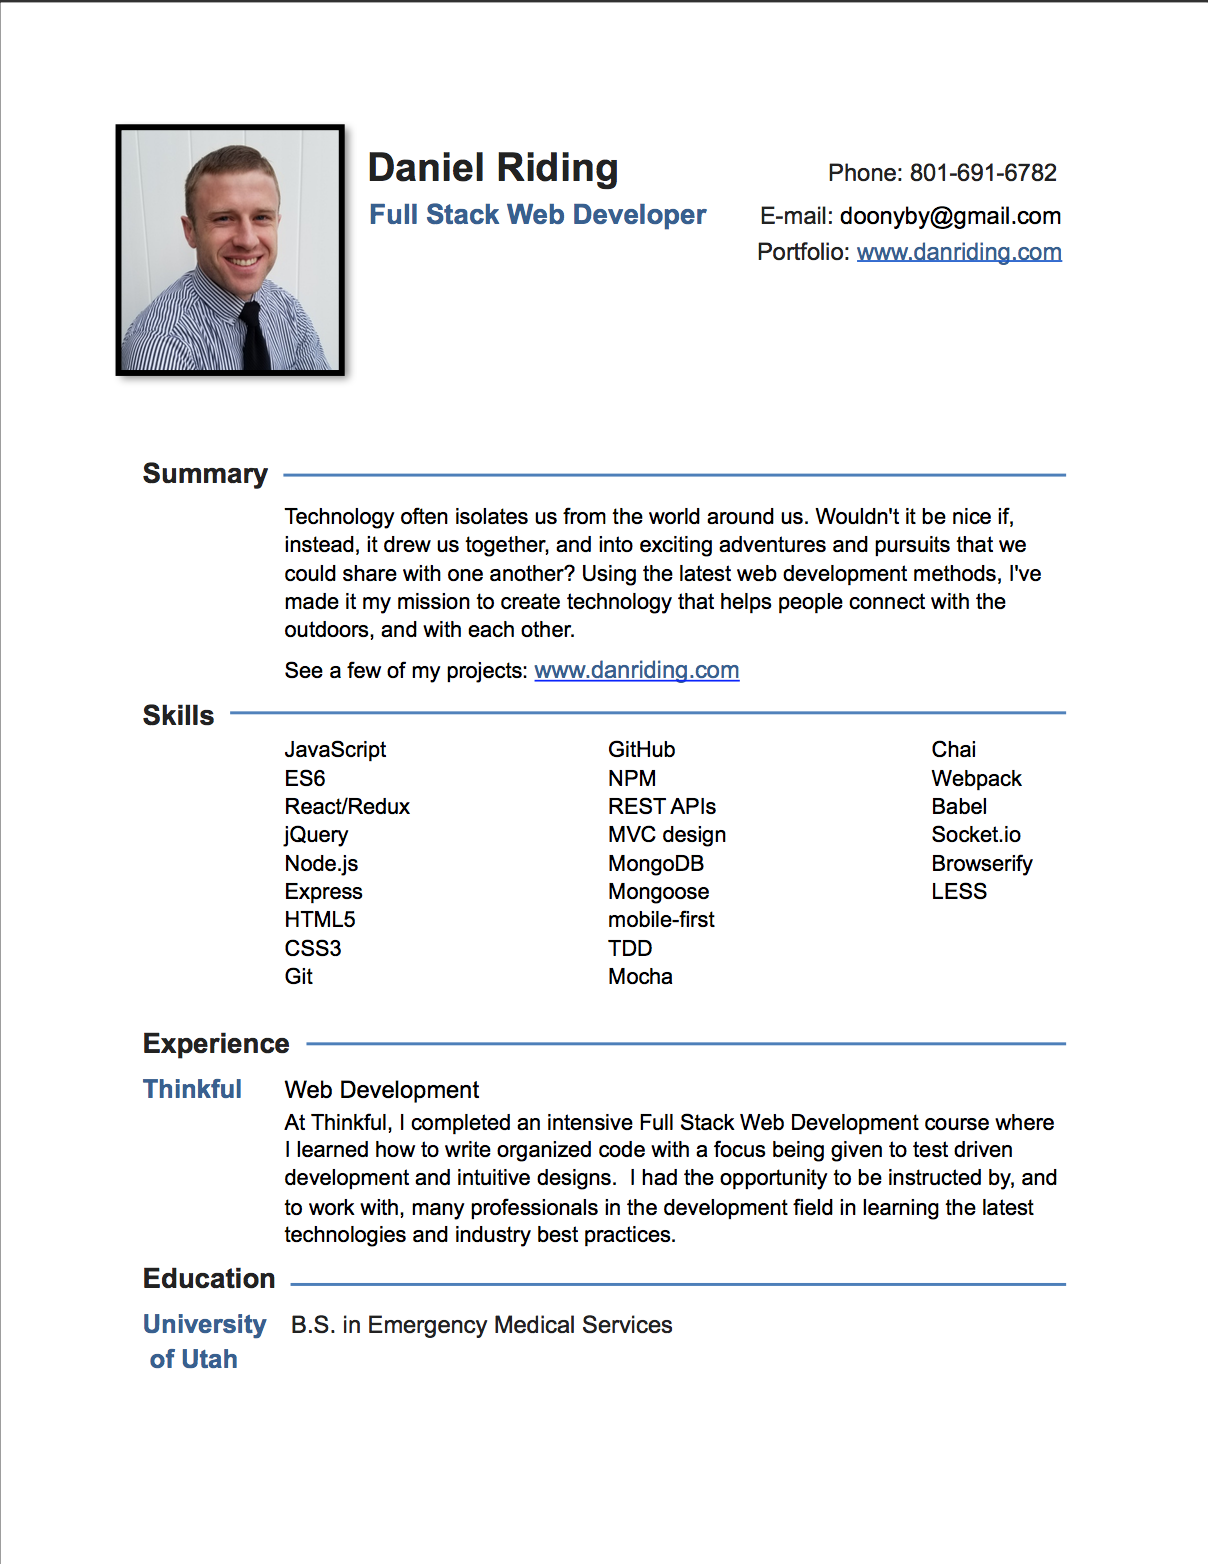
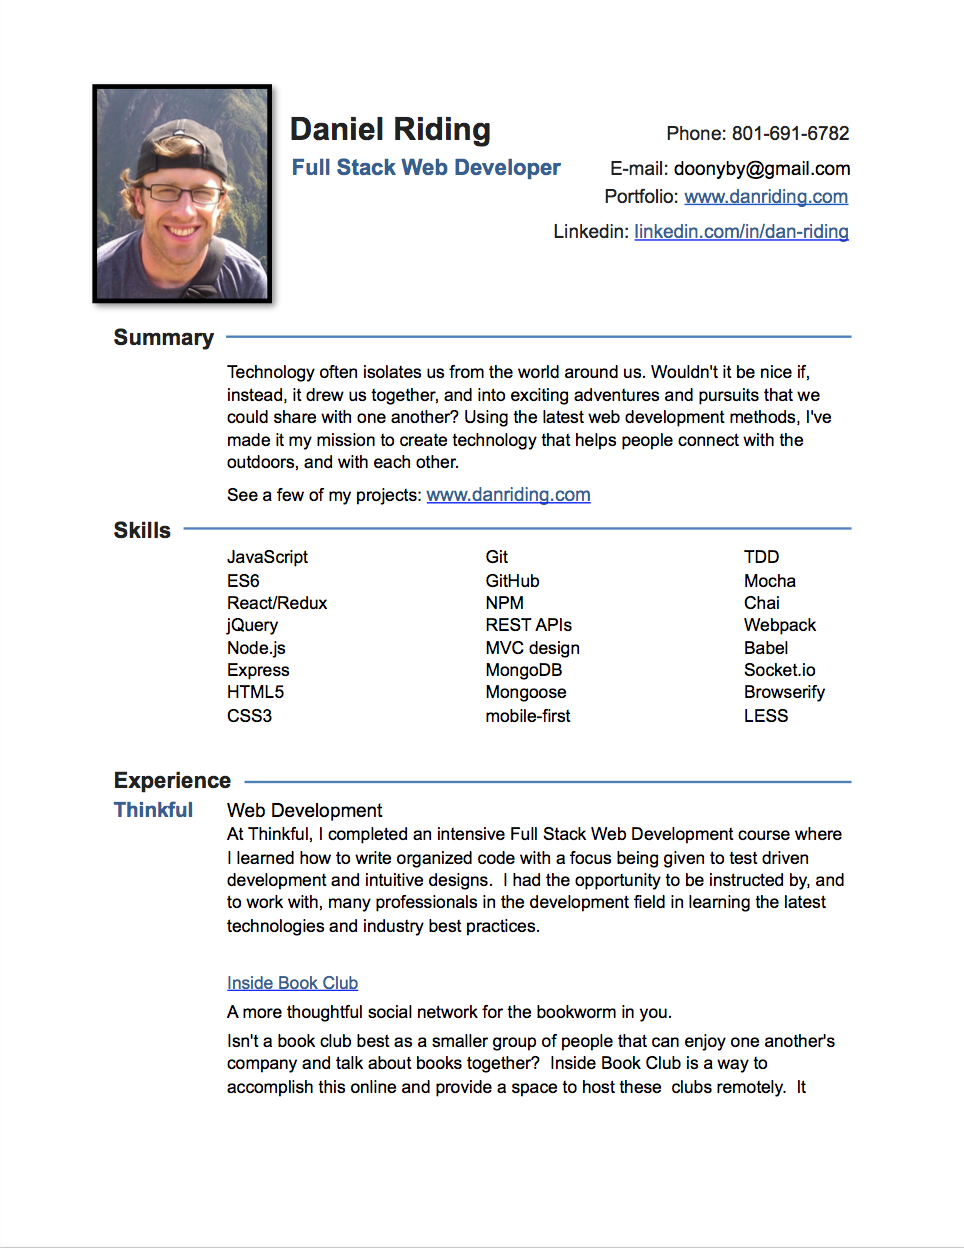
added new resume

diff --git a/index.html b/index.html
@@ -7,5 +7,6 @@
 </head>
 <body>
 	<img src="./resumepdf.png">
+	<img class="bottomPic" src="./resumepdf2.png"
 </body>
 </html>

diff --git a/style.css b/style.css
@@ -7,3 +7,8 @@ img {
 	padding-top: 5vh;
 	width: 80%;
 }
+
+.bottomPic {
+	padding-top: 0px;
+	margin-top: -5px;
+}
